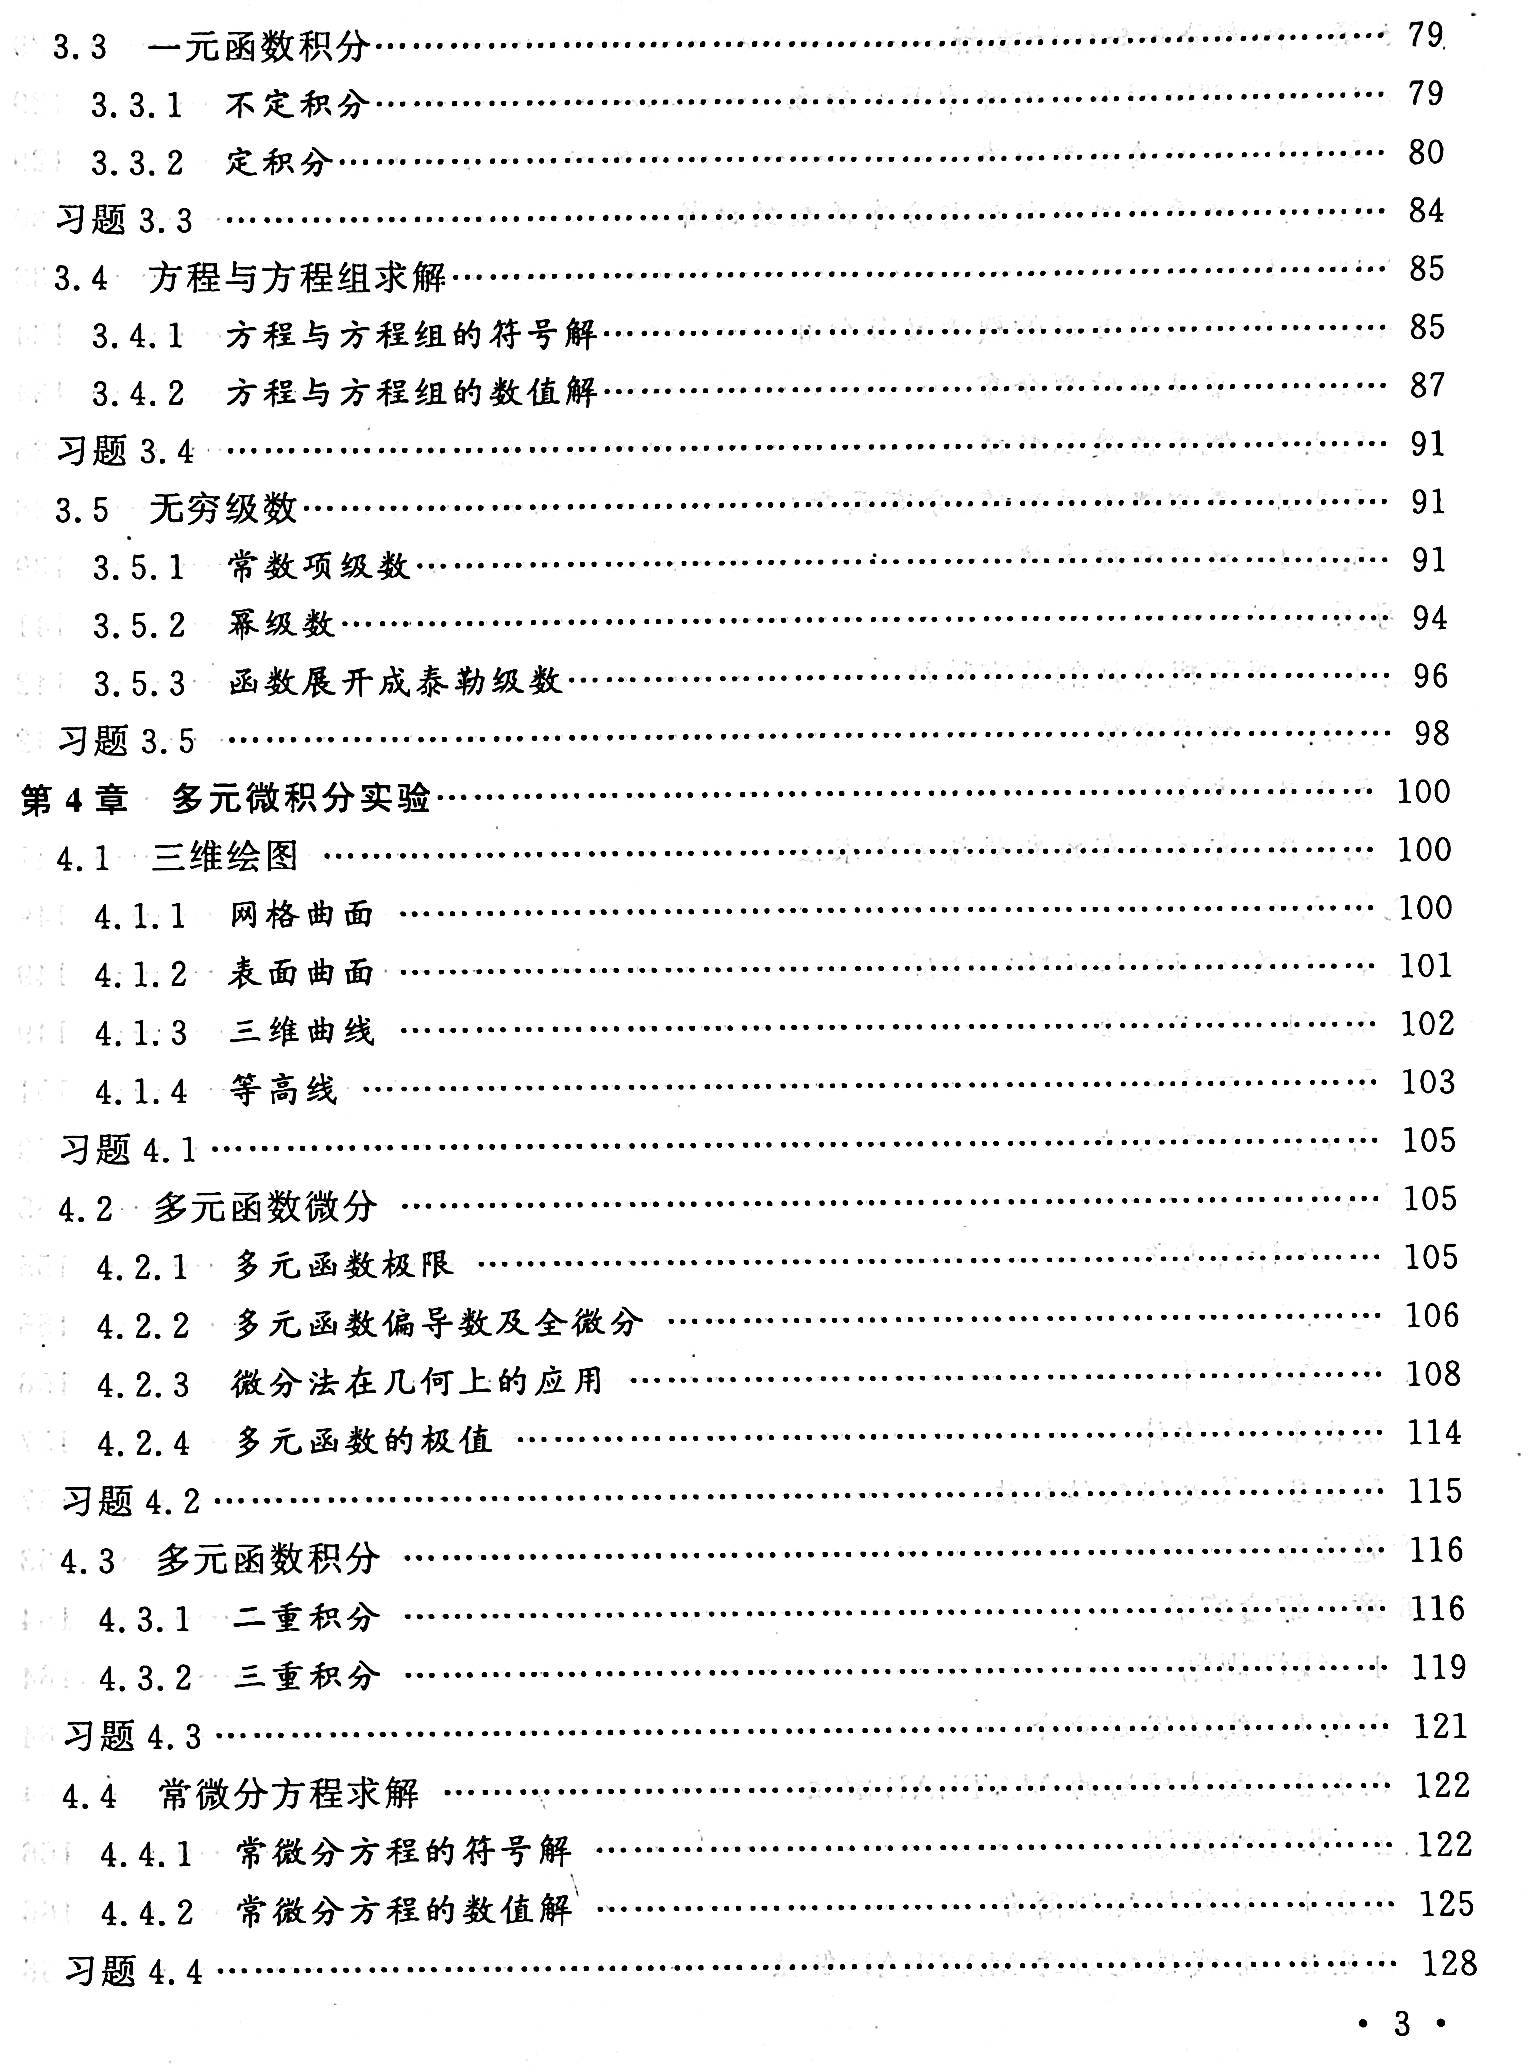
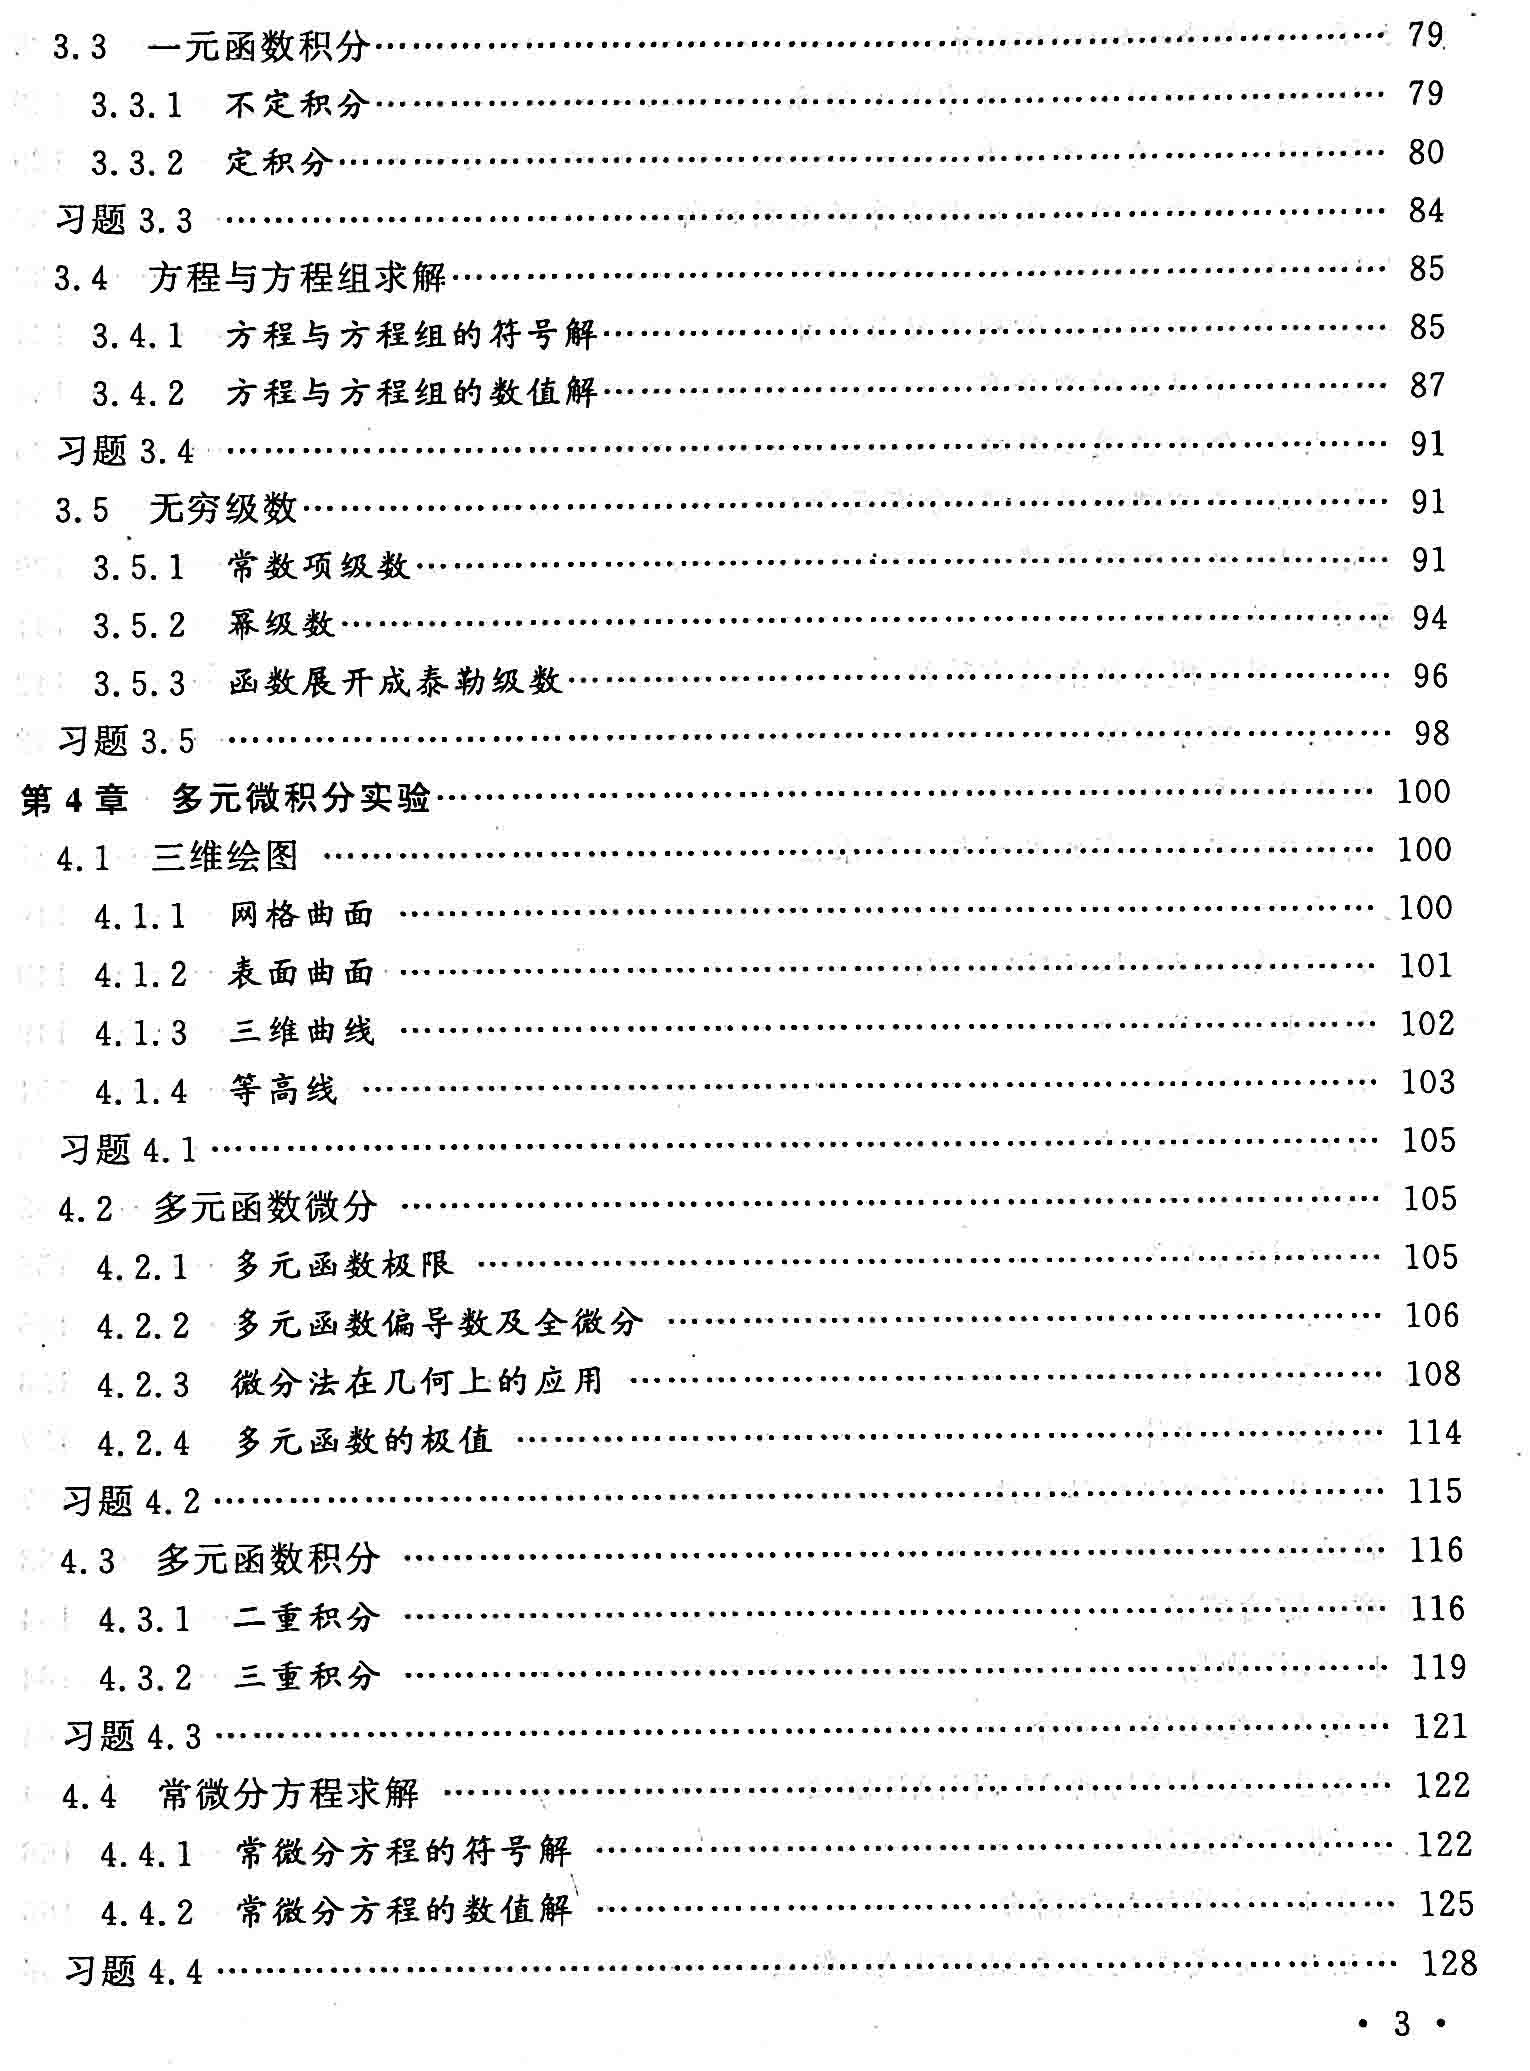
修改图片质量

diff --git a/app.js b/app.js
@@ -45,6 +45,9 @@ app.use(koaBody({
   }
 }))
 
+
+//test tag v1.0
+
 // logger
 app.use(async (ctx, next) => {
   const start = new Date()
